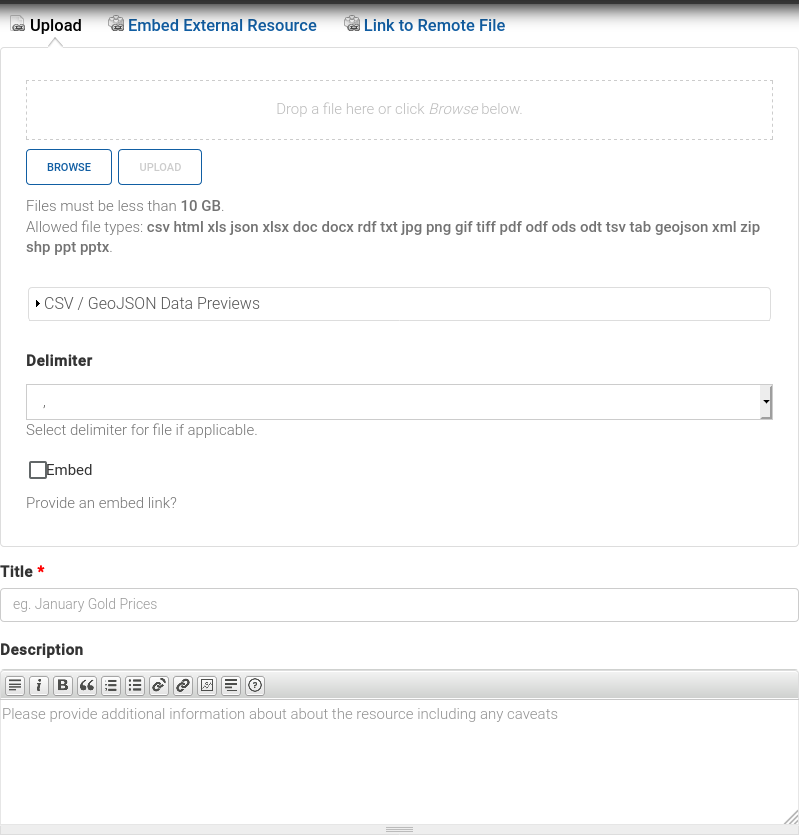
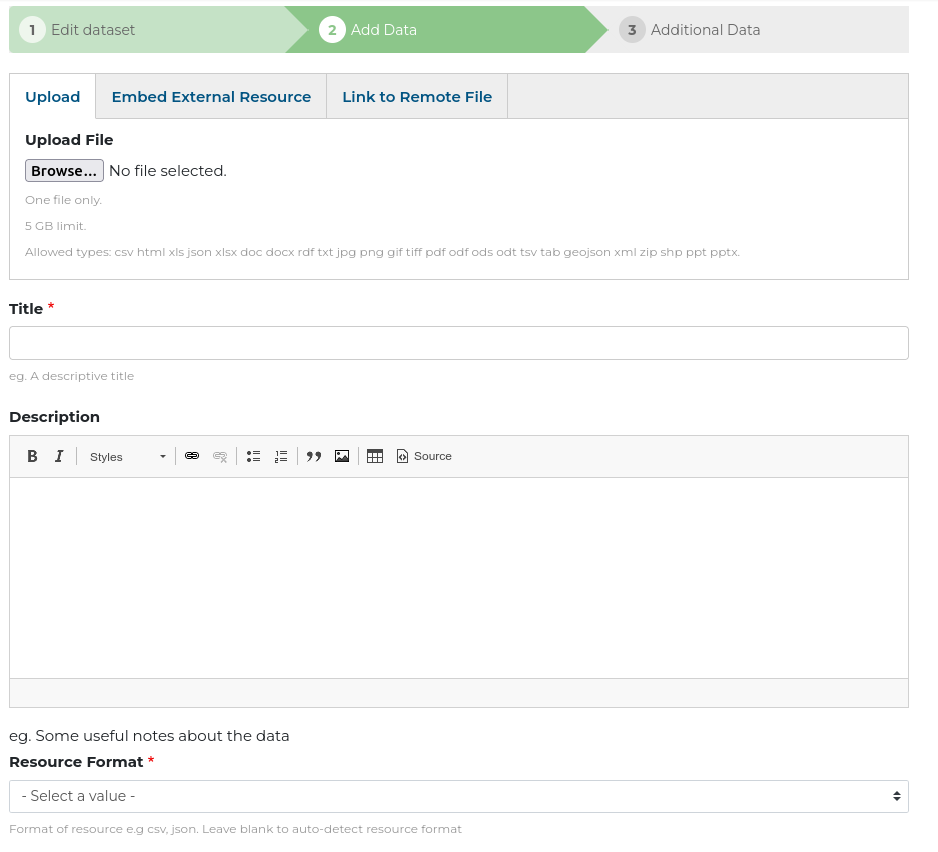
updated create dataset screenshots for the upgraded data portals

diff --git a/docs/dataportal/quickstart.md b/docs/dataportal/quickstart.md
@@ -26,7 +26,7 @@ Datasets are containers that hold resources. They can hold metadata such as auth
 
 ## Create a dataset
 
-From the Admin Menu, hover over the Add Content menu link. On the drop-down menu, select the Dataset option.
+From the Admin Menu, hover over the Datasets link. On the drop-down menu, select the Add Dataset option.
 
 <img alt="Create Dataset" src={useBaseUrl('img/dataportal/create-dataset.png')} />
 
@@ -34,13 +34,13 @@ From the Admin Menu, hover over the Add Content menu link. On the drop-down menu
 
 ### 1. Add Basic Metadata
 
-Add values for the basic metadata fields such as title, description, tags, groups and topics. Specify the license as **Public**, **Shared** or **Private**. Click **NEXT: ADD DATA** to continue
+Add values for the basic metadata fields such as title, description, groups, tags, relevant countries and topics. Specify the license as **Public**, **Shared** or **Private**. Fields with a red asterisk are mandatory. Click **NEXT: ADD DATA** to continue
 
 <img alt="Metadata" src={useBaseUrl('img/dataportal/metadata-dataset.png')} />
 
 ---
 
-### 2. Add Resources
+### 2. Add a Resource
 
 Resources are the actual files or references for the dataset being published. Multiple resources can be added to one dataset, which can be useful for publishing multiple formats or variations of the dataset. Resources can also be used to publish other related references such as a copy of a report that a dataset was used for.
 
